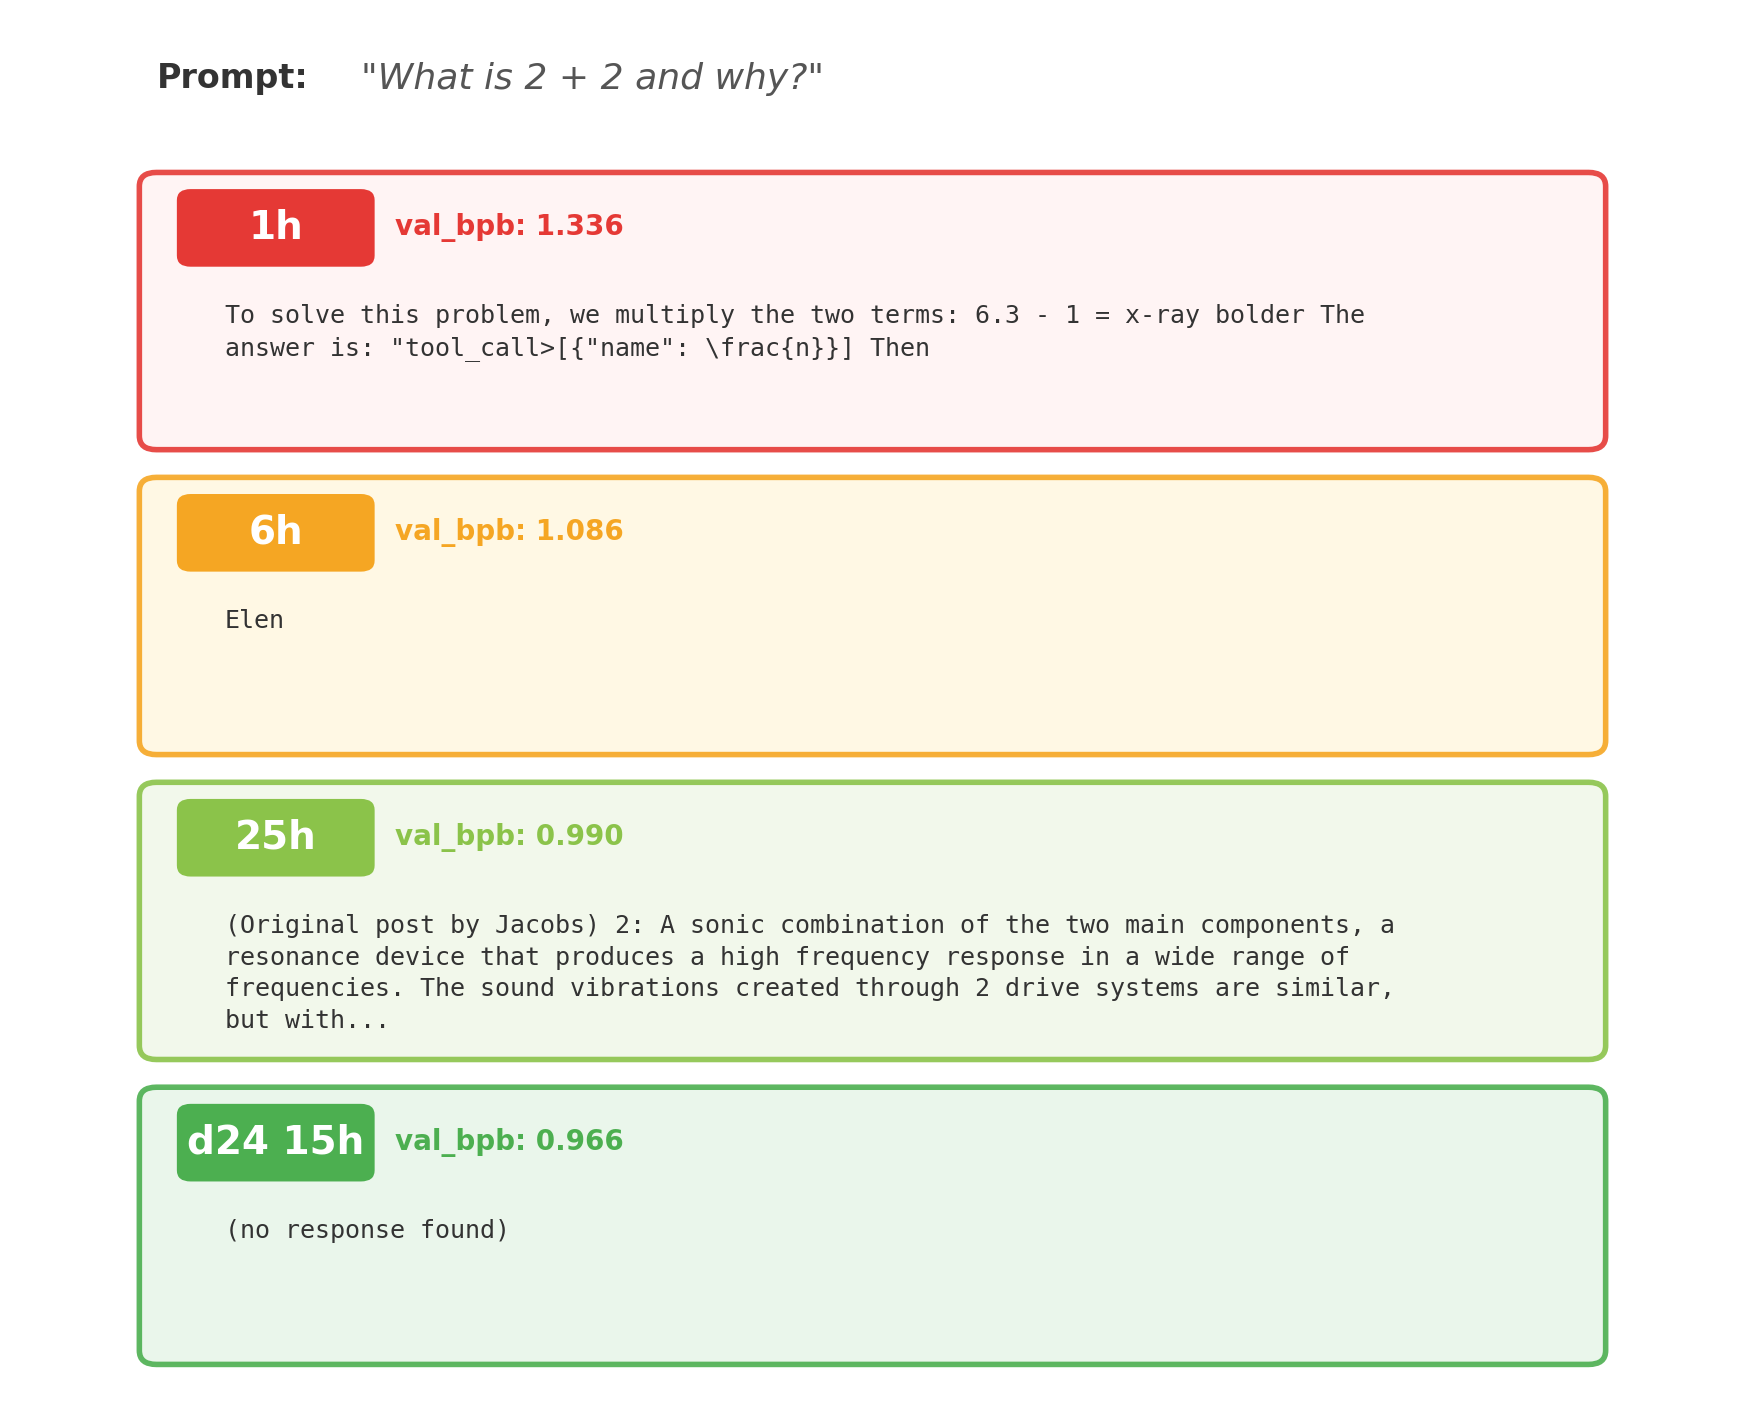
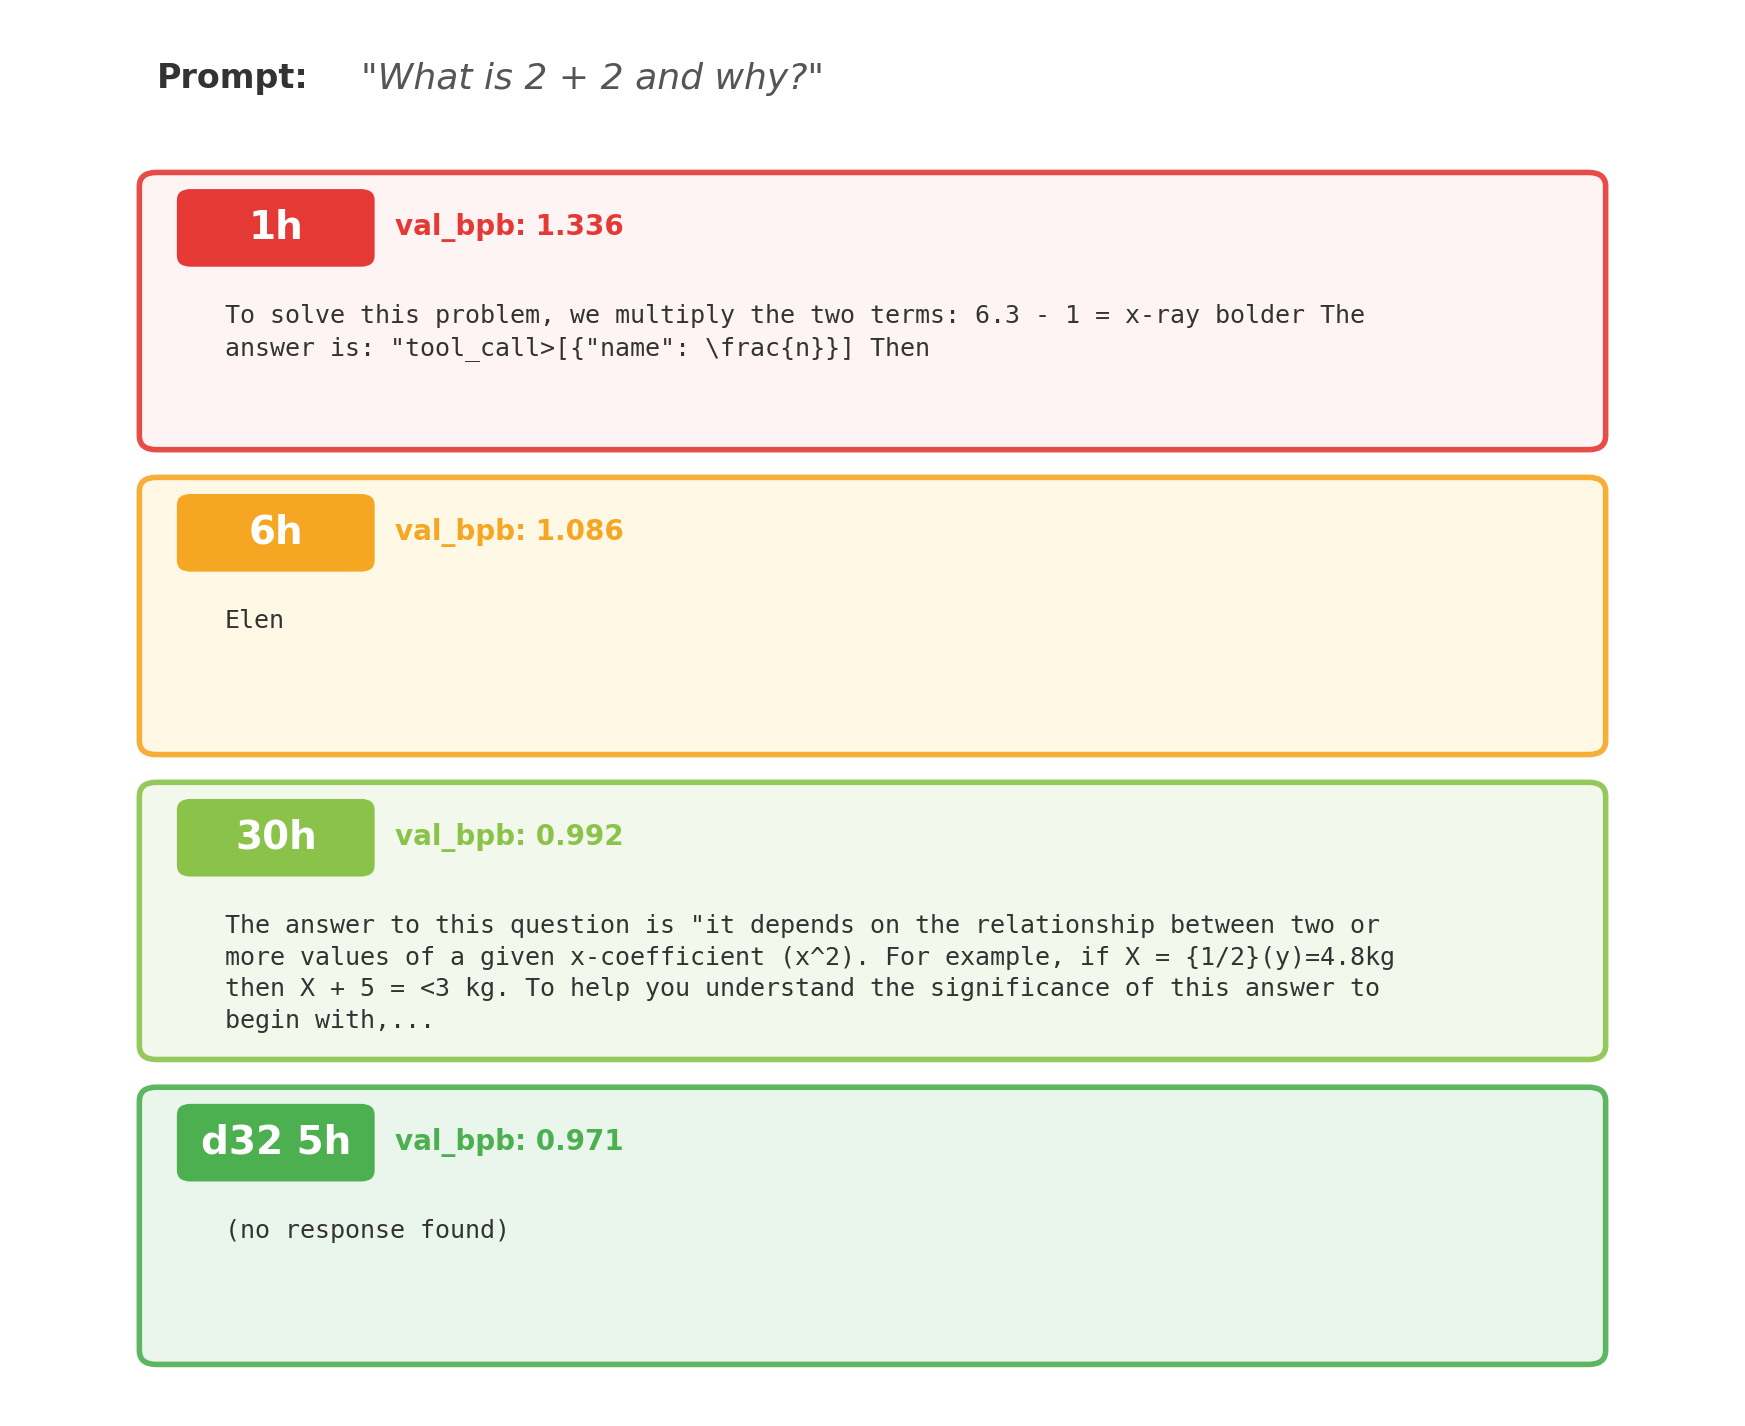
deep-train #17: d32 5h, val_bpb 0.971, 553M params
d24→d32 growth (419M→553M). Sky mentions "sun's energy reflects off
earth" and "tonal spectrum of visible light" — most physics-specific
yet. Robot has 10-year learning narrative. 20h continuous run next.

Changed region(s): [[0.1238, 0.648, 0.8046, 0.7405], [0.0928, 0.7714, 0.2166, 0.8331], [0.3404, 0.7714, 0.3713, 0.8022]]

diff --git a/blog.md b/blog.md
@@ -12,8 +12,8 @@ The explore loop runs at a small, fast depth (typically ~5M params, ~500 experim
 
 ### Experiment overview
 
-**Total experiments**: 279 · **Kept**: 42 · **Discarded**: 203 · **Crashes**: 0
-**Deep-train sessions**: 16 · **Accumulated pretraining**: 60.0h (d16) + 15.0h (d24)
+**Total experiments**: 281 · **Kept**: 42 · **Discarded**: 203 · **Crashes**: 0
+**Deep-train sessions**: 17 · **Accumulated pretraining**: 60.0h (d16) + 15.0h (d24) + 5.0h (d32)
 **Best explore val_bpb**: 1.282250
 
 **Top 5 highest-impact experiments**
@@ -587,5 +587,35 @@ The full-layer SFT (all blocks trainable, not just lm_head) produces clearly bet
 | Emerging reasoning | better | Sky explores the phrase from multiple angles (identity, historical, climate); robot uses numbered conditions for when communication fails |
 
 val_bpb 0.966 nearly matches d16's 0.958 in only 15h vs 60h. The d24 model is learning ~4x faster per hour than d16 did, confirming that progressive depth growth is more efficient than training a shallower model longer. Ready to grow to d32.
+
+---
+
+## #17 · 2026-03-29 · 5h accumulated pretraining (d32)
+
+**val_bpb**: 0.970539 · **model**: depth=32, 1024-dim · ~553M params · 5h pretraining (grown from d24 15h)
+
+**Progressive depth growth d24→d32**: 8 new layers interleaved, 419M→553M params. Loss started at 2.82 (minimal regression from d24's 2.65) and dropped to 2.60 in 5h. val_bpb 0.971 already competitive with d24's 0.966 at 15h. 20h continuous training next.
+
+**Benchmark responses**
+
+*Q: Explain why the sky is blue.*
+> The tonal spectrum of visible light and near-visible light are often more distinct as they approach us than we think. The sun's energy reflects off earth from any angle, causing it to change color in response to changes in its environment, including temperature; sunlight reaching Earth; or airplanes landing on a plane.
+
+*Q: Hello!*
+> I am an experienced and qualified parent who's deep love for mathematical skills, has a passion for learning in the field of science and technology... My passion as a researcher is paving the way towards understanding and appreciating different types of abstract ideas.
+
+*Q: Tell me a short story about a robot who learns to feel.*
+> I had been working on this for over 10 years now with my robot friend Myself - he has taught me more than I used to. The robots were just like those described by him in an article recently published in Nature Communications, and they started looking at things from a different angle as if they were not being taught.
+
+**Quality assessment vs d24 15h (#16)**
+
+| Dimension | Change | Evidence |
+|---|---|---|
+| Grammar | same | Both fluent |
+| Coherency | mixed | Sky repeats the same paragraph (regression); robot maintains a consistent 10-year narrative with "Myself" |
+| Topic follow-through | better | Sky mentions "sun's energy reflects off earth", "tonal spectrum of visible light" — most physics-specific yet; robot references Nature Communications publication |
+| Emerging reasoning | better | Robot discusses learning progression over 10 years; math acknowledges "I'm not sure what's going on" (self-awareness); Hello presents a researcher's career narrative |
+
+val_bpb 0.971 at d32 5h vs d24's 0.966 at 15h. The d32 model already produces the most physics-specific sky answer yet ("sun's energy reflects off earth", "tonal spectrum of visible light"). The robot story introduces a long-term learning relationship with a named robot friend. The repetition issue in the sky answer suggests the model needs more training. 20h continuous run starting next.
 
 ---

diff --git a/README.md b/README.md
@@ -47,6 +47,8 @@ The model is evaluated after each deep-train using 3 fixed benchmark prompts. He
 | d24 5h | 0.979 | Longer, headers/bullets | Elaborate but repetitive | Sky mentions astronomers/sunlight; France mentions Bordeaux | Structured with disclaimers; lm_head-only SFT limitation |
 | d24 10h | 0.990 | Fluent, conversational | Maintains themes well | Sky: "reflected rays absorbed"; robot: "Would you teach me how to express myself?" | Dialogue, self-reflection; Hello creates multi-participant exchange |
 | d24 15h | 0.966 | Structured, thematic | Sky uses "The sky can be blue" as recurring motif | Robot discusses communication compatibility | Multi-angle analysis; numbered conditions |
+| | | | **Progressive depth growth: d24→d32 (419M→553M params, same 1024-dim)** | | |
+| d32 5h | 0.971 | Fluent, detailed | Robot has 10-year narrative with "Myself" | Sky: "sun's energy reflects off earth", "tonal spectrum of visible light" | Self-aware math: "I'm not sure what's going on" |
 
 **Notable milestones:**
 - **2h**: First time a response touches the actual topic (sky → sun/atmosphere)
@@ -62,7 +64,8 @@ The model is evaluated after each deep-train using 3 fixed benchmark prompts. He
 - **60h**: val_bpb 0.958 (3.4% drop from 30h); 30h continuous run broke through the fake plateau; sky leads with "sunlight reflects"; cause-effect reasoning emerging in math/robot answers
 - **d24 growth**: Progressive depth growth d16→d24 (285M→419M params, same 1024-dim). Recovered from 1.167 to 0.979 val_bpb in 5h
 - **d24 10h**: Full-layer SFT fixed (freeze scalars, lr=1e-5, clip=0.1, NaN skip). Robot story includes dialogue: "Would you teach me how to express myself?"
-- **d24 15h**: val_bpb 0.966 — within 0.8% of d16's 0.958 at 60h, achieved in 15h (4x faster per hour). Ready to grow to d32
+- **d24 15h**: val_bpb 0.966 — within 0.8% of d16's 0.958 at 60h, achieved in 15h (4x faster per hour)
+- **d32 5h**: 553M params. Sky answer mentions "sun's energy reflects off earth" and "tonal spectrum of visible light" — most physics-specific response yet
 
 ### Benchmark responses over time
 
